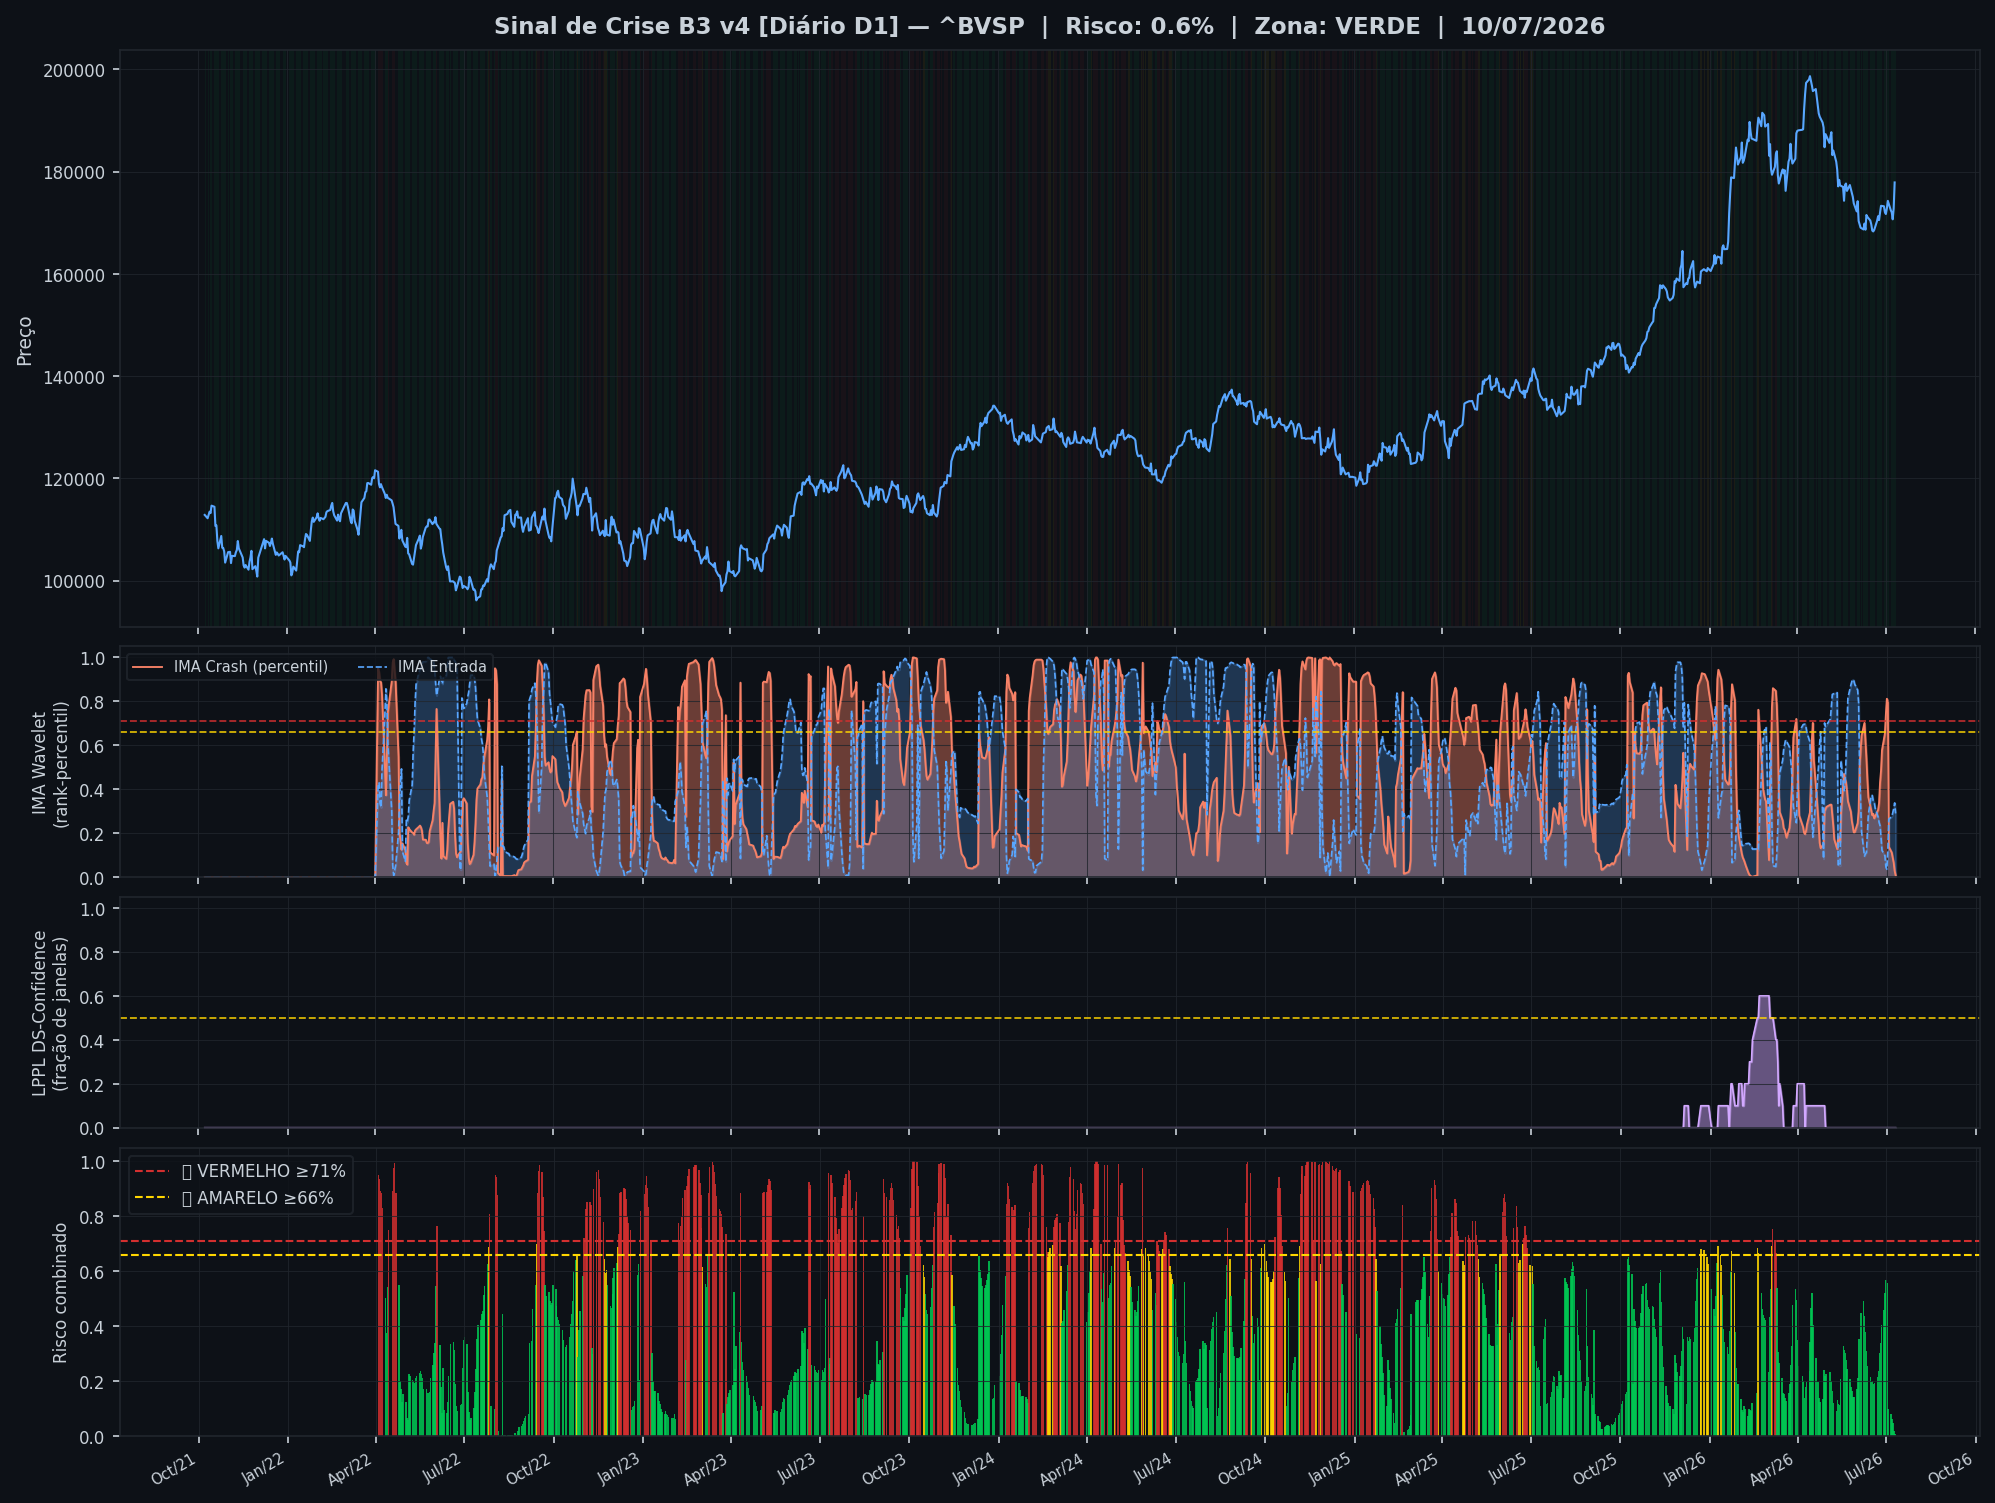
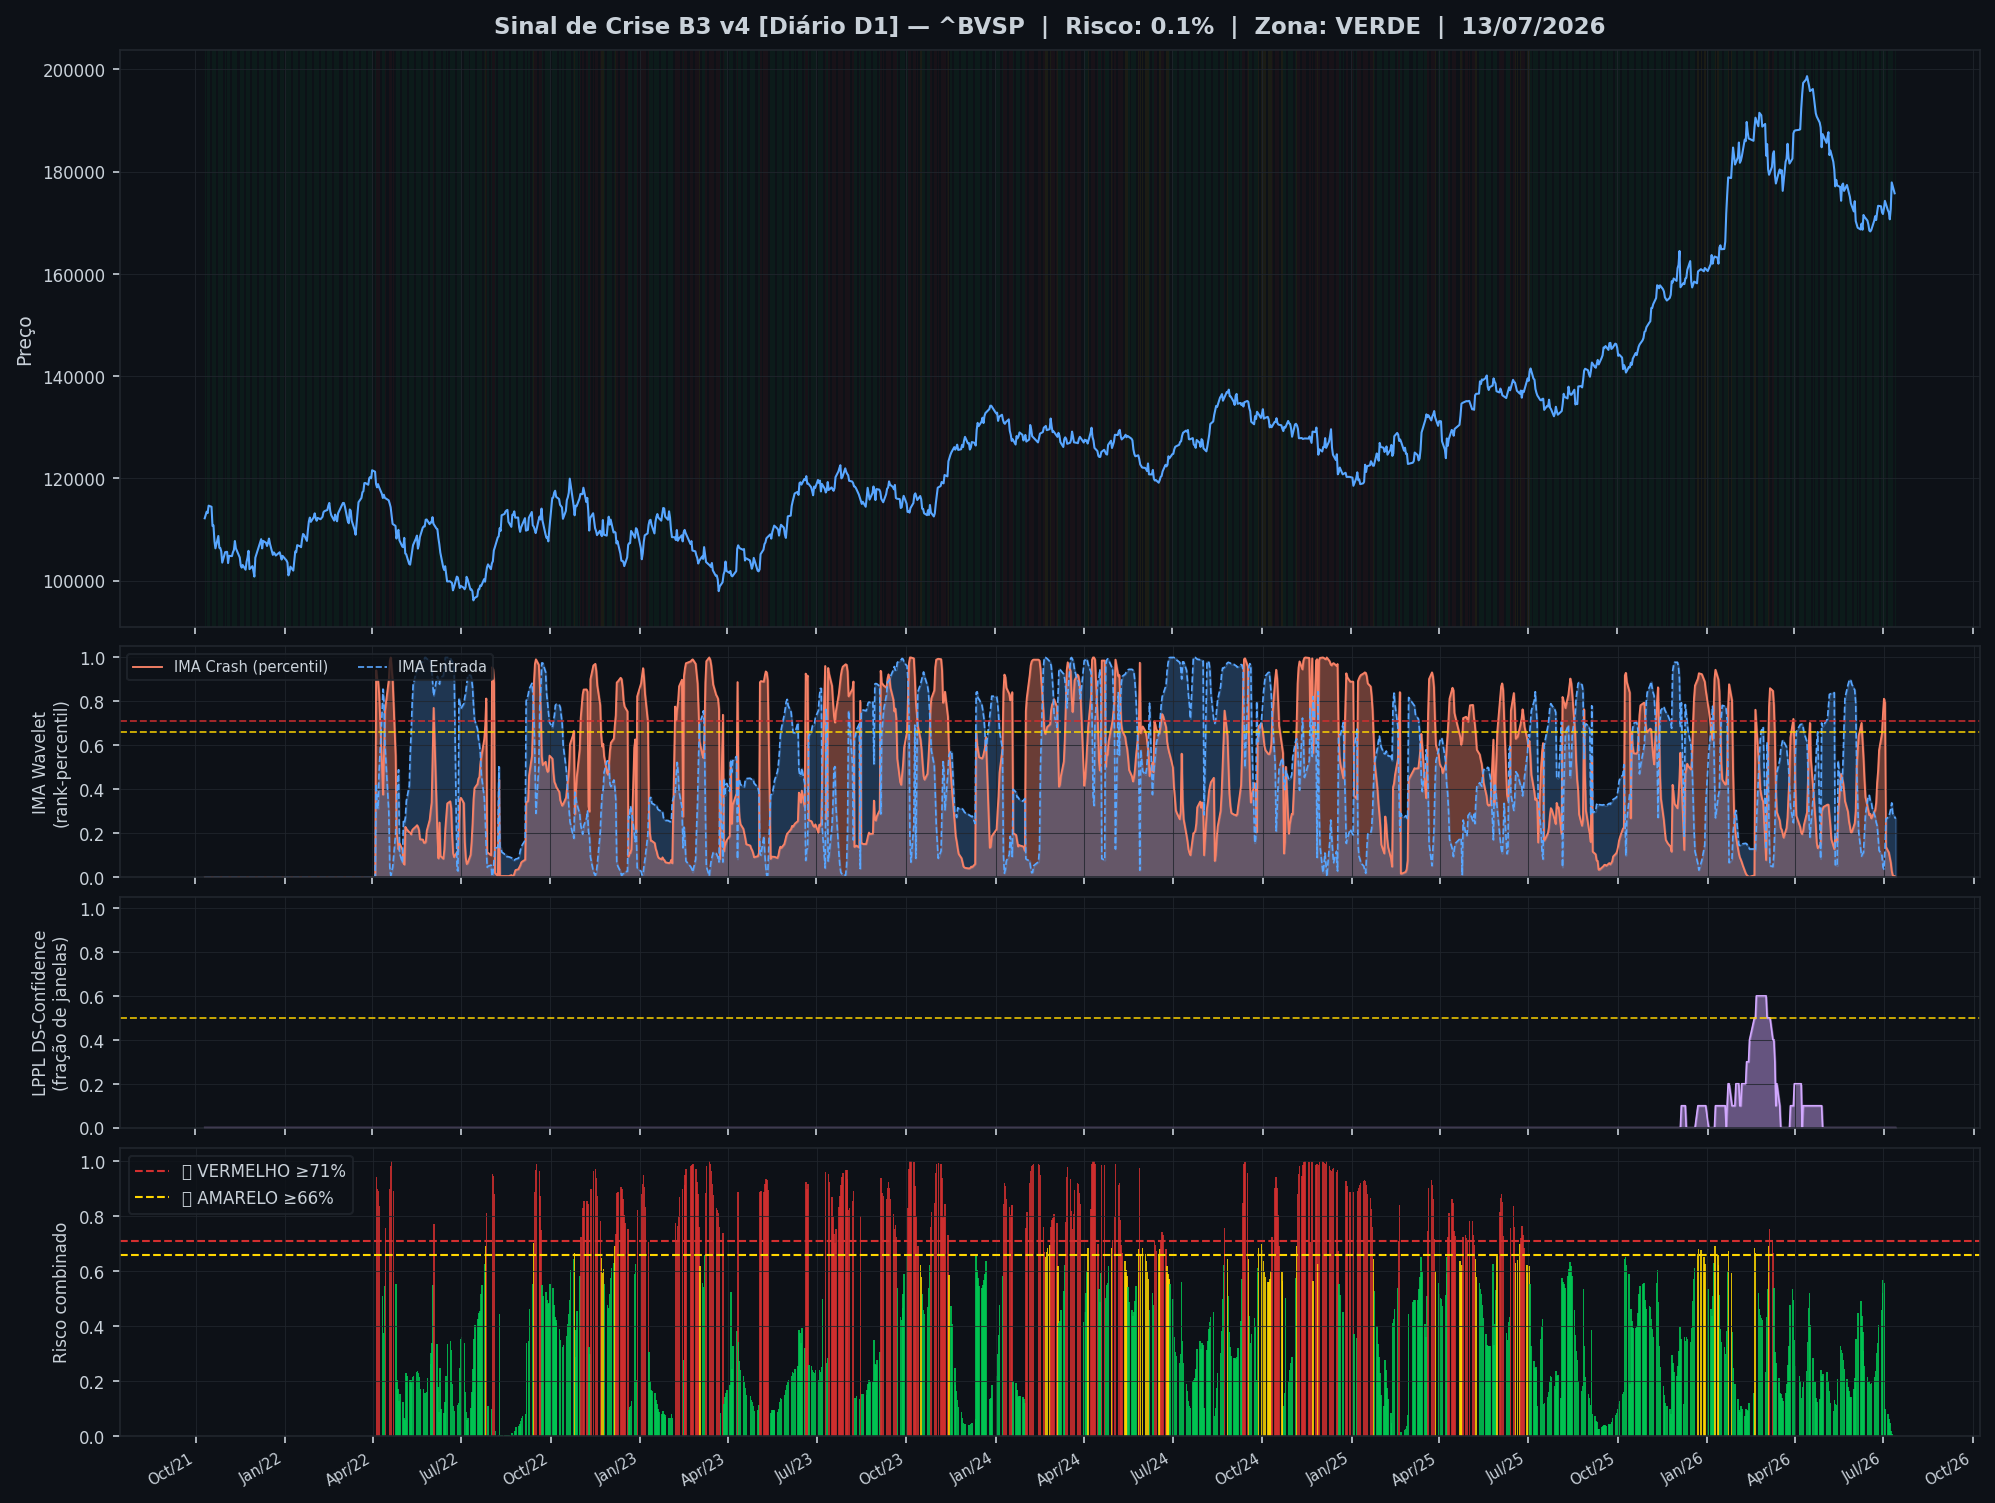
🤖 Auto: Sinal 13/07/2026 19:02

diff --git a/content/diario/2026-07-13.md b/content/diario/2026-07-13.md
@@ -1,0 +1,103 @@
+---
+title: "🟢 Diário 13/07/2026 — VERDE"
+date: 2026-07-13
+tags: [diario]
+---
+
+> [!success] 🟢 **VERDE** — Risco 0% · ＝ -0 p.p. vs leitura anterior
+> `░░░░░░░░░░░░░░░░░░░░`
+> Mercado sem sinais relevantes de estresse.
+
+
+| Indicador | Valor |
+|---|---|
+| 🔴 IMA Crash (percentil 2 anos) | **0%** |
+| 🔵 IMA Entrada (compra) | 27% |
+| 🫧 LPPL DS-Confidence | 0% |
+| 📊 Ibovespa | 175.739 pts |
+
+![Gráfico do sinal](../graficos/sinal_diario.png)
+
+## Últimos 30 pregões
+
+| Data | Zona | Risco | IMA | LPPL |
+|---|---|---|---|---|
+| 2026-07-13 | 🟢 VERDE | **0%** | 0% | 0% |
+| 2026-07-10 | 🟢 VERDE | **1%** | 1% | 0% |
+| 2026-07-09 | 🟢 VERDE | **2%** | 3% | 0% |
+| 2026-07-08 | 🟢 VERDE | **5%** | 7% | 0% |
+| 2026-07-07 | 🟢 VERDE | **6%** | 9% | 0% |
+| 2026-07-06 | 🟢 VERDE | **8%** | 11% | 0% |
+| 2026-07-03 | 🟢 VERDE | **10%** | 14% | 0% |
+| 2026-07-02 | 🟢 VERDE | **56%** | 80% | 0% |
+| 2026-07-01 | 🟢 VERDE | **57%** | 81% | 0% |
+| 2026-06-30 | 🟢 VERDE | **52%** | 74% | 0% |
+| 2026-06-29 | 🟢 VERDE | **46%** | 65% | 0% |
+| 2026-06-26 | 🟢 VERDE | **40%** | 58% | 0% |
+| 2026-06-25 | 🟢 VERDE | **34%** | 48% | 0% |
+| 2026-06-24 | 🟢 VERDE | **30%** | 43% | 0% |
+| 2026-06-23 | 🟢 VERDE | **24%** | 34% | 0% |
+| 2026-06-22 | 🟢 VERDE | **21%** | 31% | 0% |
+| 2026-06-19 | 🟢 VERDE | **19%** | 28% | 0% |
+| 2026-06-18 | 🟢 VERDE | **19%** | 27% | 0% |
+| 2026-06-17 | 🟢 VERDE | **20%** | 29% | 0% |
+| 2026-06-16 | 🟢 VERDE | **20%** | 28% | 0% |
+| 2026-06-15 | 🟢 VERDE | **21%** | 30% | 0% |
+| 2026-06-12 | 🟢 VERDE | **25%** | 36% | 0% |
+| 2026-06-11 | 🟢 VERDE | **31%** | 44% | 0% |
+| 2026-06-10 | 🟢 VERDE | **38%** | 54% | 0% |
+| 2026-06-09 | 🟢 VERDE | **44%** | 62% | 0% |
+| 2026-06-08 | 🟢 VERDE | **49%** | 70% | 0% |
+| 2026-06-05 | 🟢 VERDE | **45%** | 64% | 0% |
+| 2026-06-03 | 🟢 VERDE | **35%** | 50% | 0% |
+| 2026-06-02 | 🟢 VERDE | **21%** | 30% | 0% |
+| 2026-06-01 | 🟢 VERDE | **17%** | 25% | 0% |
+
+## Monitor Multi-Ativo
+
+**19% dos ativos em tensão** (2🔴 3🟡) — quanto mais ativos disparam juntos, mais confiável o sinal.
+
+| Zona | Ativo | Setor | IMA Crash | IMA Entrada |
+|---|---|---|---|---|
+| 🔴 | **USD/BRL** | Câmbio | 98.2% | 6.6% |
+| 🔴 | **PETROBRAS** | Petróleo | 94.8% | 2.4% |
+| 🟡 | **VALE** | Mineração | 83.4% | 2.6% |
+| 🟡 | **PETROBRAS** | Petróleo | 77.8% | 14.0% |
+| 🟡 | **AMBEV S/A** | Consumo | 76.0% | 3.8% |
+| 🟢 | **GERDAU** | Siderurgia | 59.8% | 54.0% |
+| 🟢 | **PRIO** | Petróleo | 53.8% | 72.4% |
+| 🟢 | **SUZANO S.A.** | Papel/Celulose | 53.2% | 63.0% |
+| 🟢 | **BBSEGURIDADE** | Financeiro | 37.0% | 75.2% |
+| 🟢 | **VIBRA** | Energia | 22.4% | 66.2% |
+| 🟢 | **LOCALIZA** | Aluguel | 20.2% | 63.8% |
+| 🟢 | **B3** | Financeiro | 18.2% | 57.6% |
+| 🟢 | **ULTRAPAR** | Outros | 15.4% | 45.4% |
+| 🟢 | **ENEVA** | Energia | 8.2% | 36.2% |
+| 🟢 | **BRASIL** | Financeiro | 5.2% | 36.2% |
+| 🟢 | **EQUATORIAL** | Energia | 3.2% | 26.8% |
+| 🟢 | **AXIA ENERGIA** | Energia | 3.0% | 21.0% |
+| 🟢 | **TELEF BRASIL** | Outros | 3.0% | 25.0% |
+| 🟢 | **BTGP BANCO** | Financeiro | 2.2% | 26.8% |
+| 🟢 | **WEG** | Industrial | 1.4% | 30.8% |
+| 🟢 | **REDE D OR** | Saúde | 1.4% | 28.8% |
+| 🟢 | **COPEL** | Energia | 1.0% | 31.0% |
+| 🟢 | **BRADESCO** | Financeiro | 0.8% | 30.2% |
+| 🟢 | **EMBRAER** | Outros | 0.6% | 24.0% |
+| 🟢 | **ITAUUNIBANCO** | Financeiro | 0.2% | 13.6% |
+| 🟢 | **SABESP** | Saneamento | 0.2% | 18.2% |
+| 🟢 | **ITAUSA** | Financeiro | 0.2% | 15.4% |
+
+![Monitor multi-ativo](../graficos/multi_diario.png)
+
+> [!info]- Como interpretar (clique para expandir)
+> - **IMA Crash**: percentil do índice de mudanças abruptas de Caetano nos últimos 2 anos. 80% = estresse espectral acima de 80% do histórico recente — alta frequência com baixa volatilidade, padrão que antecede viradas.
+> - **IMA Entrada**: mesmo método nas frequências baixas — mercado estável após queda, possível oportunidade de compra.
+> - **LPPL DS-Confidence**: fração de janelas (60–504 pregões) em que o modelo de bolha de Sornette produz um ajuste válido. 30% já é relevante; acima de 50% é forte evidência de estrutura de bolha.
+> - **Zonas com histerese**: o sinal só muda de zona ao cruzar o limiar de entrada, e só volta ao cruzar o de saída — evita flip-flop diário.
+
+
+---
+*Sinal de Crise B3 v4 · IMA Wavelet ([Caetano & Yoneyama, Physica-A 2007](https://doi.org/10.1016/j.physa.2007.03.054)) + LPPL DS-Confidence (Sornette, ETH-Zurich) · [Metodologia](metodologia) · [Histórico](historico)*
+
+> [!quote]- Aviso
+> Estudo acadêmico. Não constitui recomendação de investimento.

diff --git a/content/index.md b/content/index.md
@@ -4,25 +4,25 @@ date: 2026-07-13
 tags: [home]
 ---
 
-# 🟡 Sinal de Crise B3
+# 🟢 Sinal de Crise B3
 
 Monitoramento diário e intraday do Ibovespa — **IMA Wavelet** (Prof. Marco Antonio Leonel Caetano, ITA/INSPER) + **LPPL DS-Confidence** (Prof. Didier Sornette, ETH-Zurich).
 
-*Última atualização: 13/07/2026 18:02 BRT · ^BVSP · Intraday 15min · v4*
+*Última atualização: 13/07/2026 19:02 BRT · ^BVSP · Diário D1 · v4*
 
-> [!warning] 🟡 **AMARELO** — Risco 58% · ▼ -5 p.p. vs leitura anterior
-> `████████████░░░░░░░░`
-> Atenção — percentil de estresse elevado.
+> [!success] 🟢 **VERDE** — Risco 0% · ＝ -0 p.p. vs leitura anterior
+> `░░░░░░░░░░░░░░░░░░░░`
+> Mercado sem sinais relevantes de estresse.
 
 
 | Indicador | Valor |
 |---|---|
-| 🔴 IMA Crash (percentil 2 anos) | **58%** |
-| 🔵 IMA Entrada (compra) | 6% |
+| 🔴 IMA Crash (percentil 2 anos) | **0%** |
+| 🔵 IMA Entrada (compra) | 27% |
 | 🫧 LPPL DS-Confidence | 0% |
-| 📊 Ibovespa | 175.804 pts |
+| 📊 Ibovespa | 175.739 pts |
 
-**Multi-ativo:** 7% em tensão (1🔴 1🟡 de 27 ativos)
+**Multi-ativo:** 19% em tensão (2🔴 3🟡 de 27 ativos)
 
 
 > [!tip]- Calibração v4 (backtest 15y)
@@ -32,8 +32,13 @@ Monitoramento diário e intraday do Ibovespa — **IMA Wavelet** (Prof. Marco An
 
 | Data | Zona | Risco | IMA | LPPL |
 |---|---|---|---|---|
-| [13 Jul 2026](diario/2026-07-13) | 🟡 AMARELO | **58%** | 58% | 0% |
-| [10 Jul 2026](diario/2026-07-10) | 🟡 AMARELO | **65%** | 65% | 0% |
+| [13 Jul 2026](diario/2026-07-13) | 🟢 VERDE | **0%** | 0% | 0% |
+| [10 Jul 2026](diario/2026-07-10) | 🟢 VERDE | **1%** | 1% | 0% |
+| [09 Jul 2026](diario/2026-07-09) | 🟢 VERDE | **2%** | 3% | 0% |
+| [08 Jul 2026](diario/2026-07-08) | 🟢 VERDE | **5%** | 7% | 0% |
+| [07 Jul 2026](diario/2026-07-07) | 🟢 VERDE | **6%** | 9% | 0% |
+| [06 Jul 2026](diario/2026-07-06) | 🟢 VERDE | **8%** | 11% | 0% |
+| [03 Jul 2026](diario/2026-07-03) | 🟢 VERDE | **10%** | 14% | 0% |
 
 ## Navegação
 

diff --git a/content/historico.md b/content/historico.md
@@ -7,6 +7,7 @@ tags: [historico]
 
 | Data | Modo | Zona | Risco | IMA | LPPL |
 |---|---|---|---|---|---|
+| 2026-07-13 | diario | 🟢 VERDE | 0% | 0% | 0% |
 | 2026-07-13 19:45 | intraday | 🟡 AMARELO | 58% | 58% | 0% |
 | 2026-07-10 | diario | 🟢 VERDE | 1% | 1% | 0% |
 | 2026-07-10 19:45 | intraday | 🟡 AMARELO | 65% | 65% | 0% |
